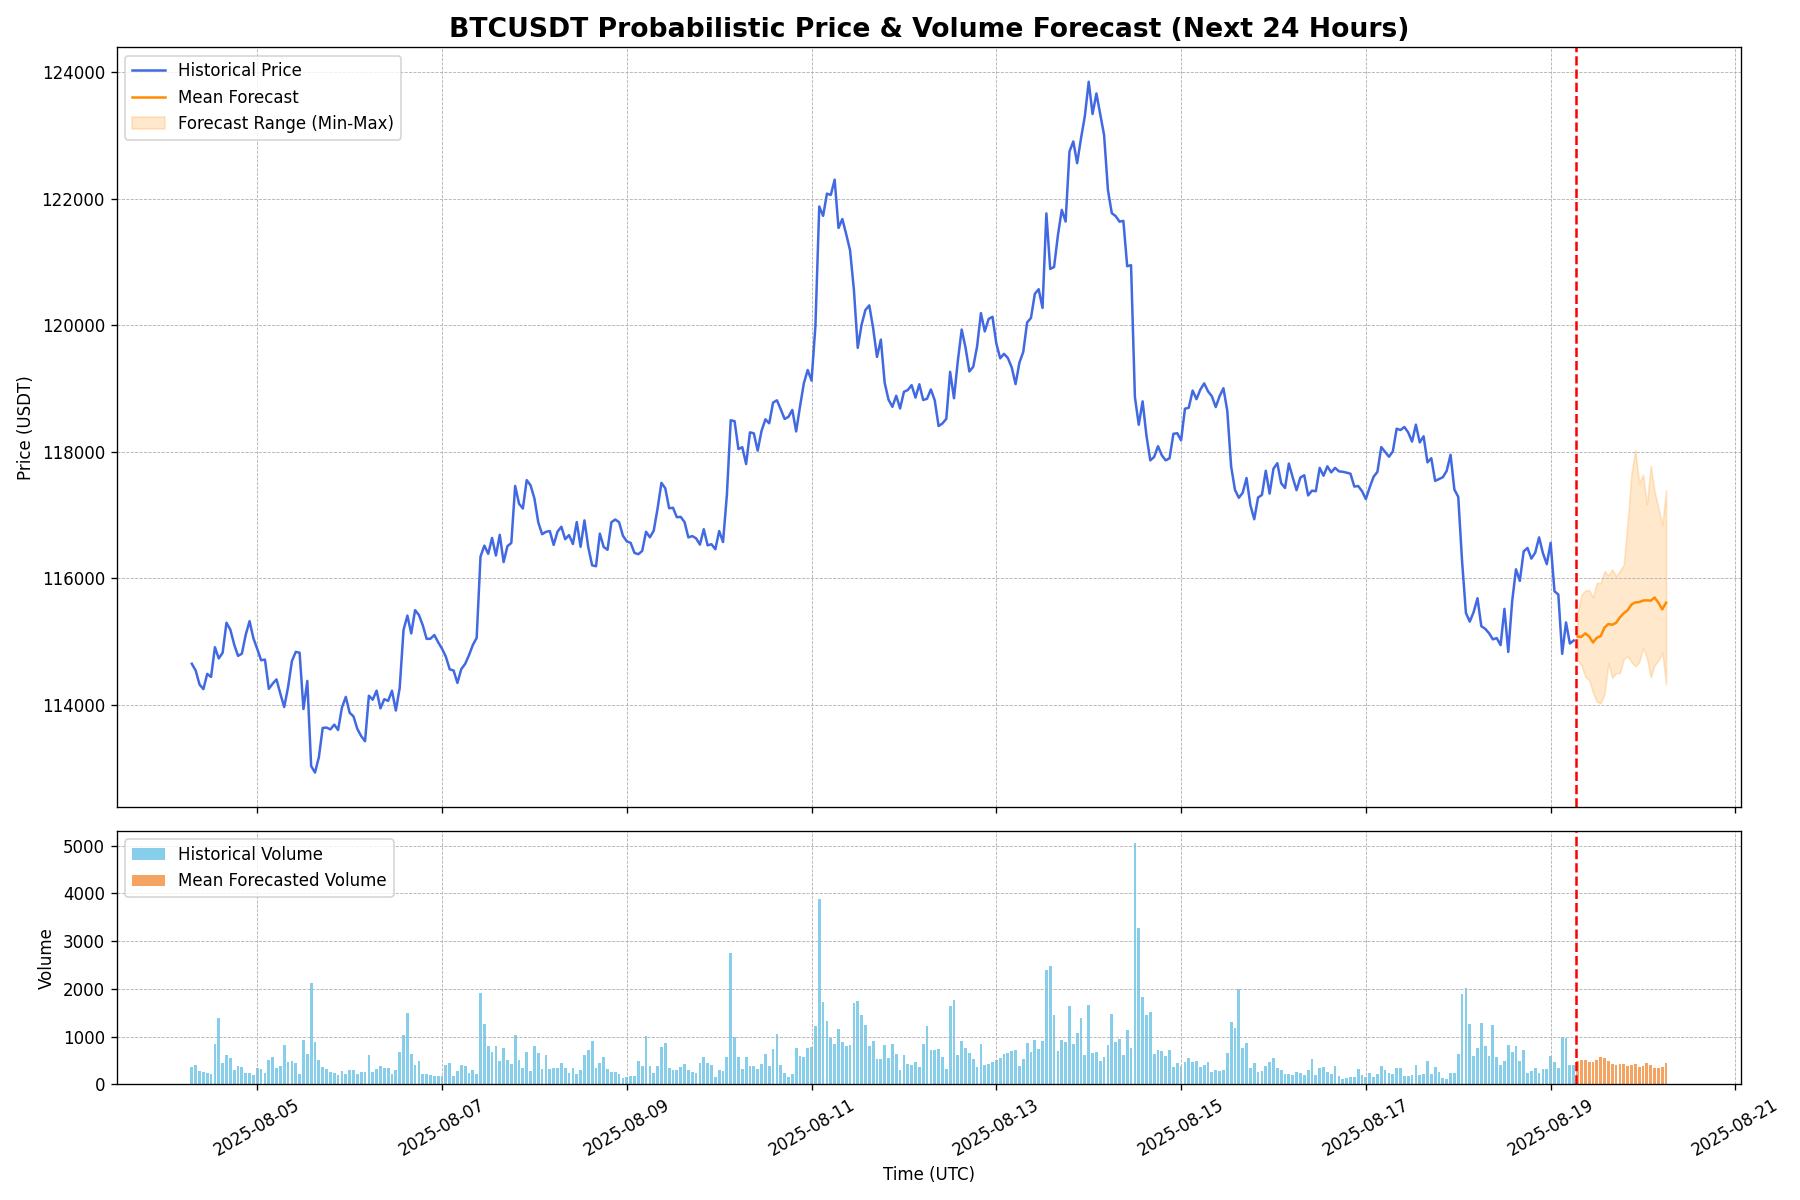
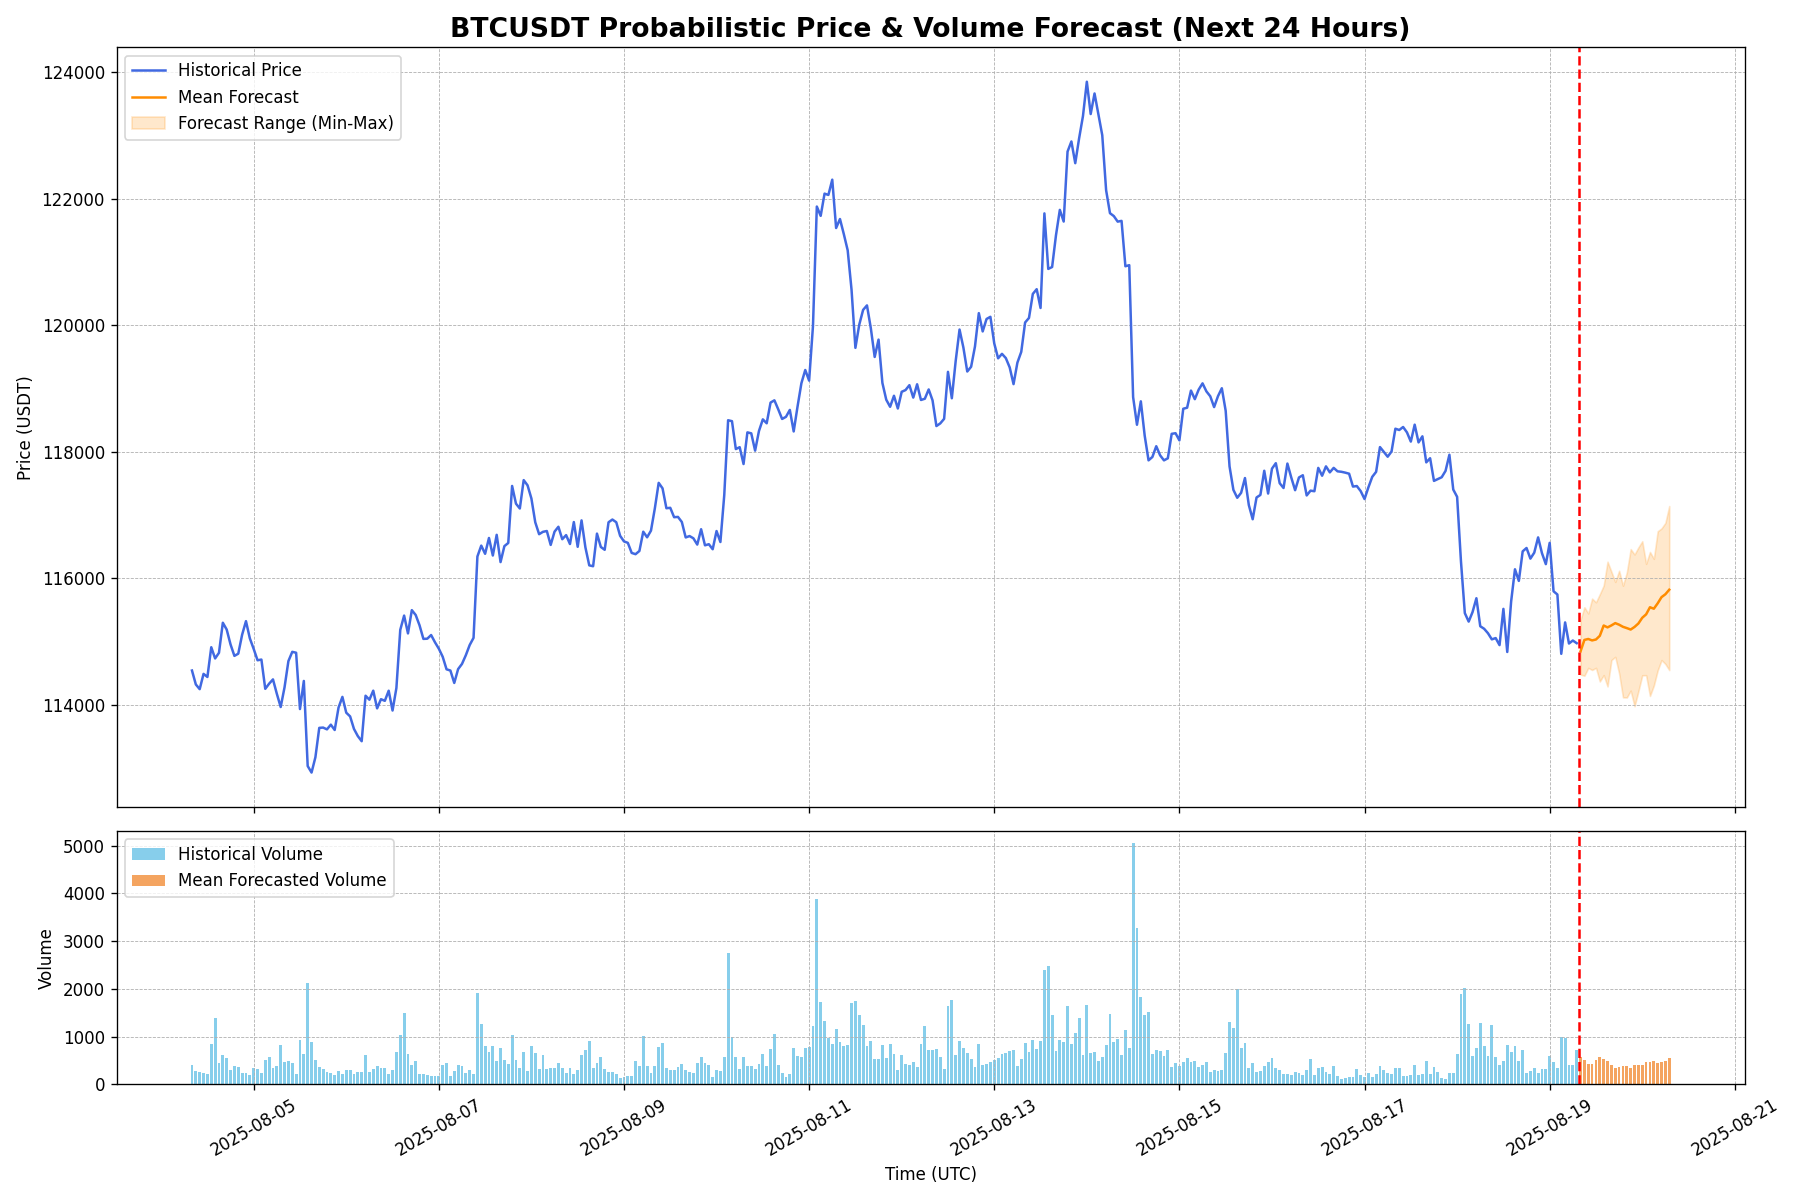
Auto-update forecast for 2025-08-19 08:03 UTC

diff --git a/index.html b/index.html
@@ -22,14 +22,14 @@
         <section id="live-dashboard">
             <h2>Live BTC/USDT Forecast Dashboard</h2>
             <div class="metadata">
-                <span>Last Updated (UTC): <strong id="update-time">2025-08-19 07:03:00</strong></span>
+                <span>Last Updated (UTC): <strong id="update-time">2025-08-19 08:03:01</strong></span>
                 <span>Data Source: Binance | Interval: 1-Hour</span>
             </div>
 
             <div class="metrics-container">
                 <div class="metric-card">
                     <h3>Upside Probability (Next 24h)</h3>
-                    <p class="metric-value" id="upside-prob">86.7%</p>
+                    <p class="metric-value" id="upside-prob">90.0%</p>
                     <div class="metric-desc">The model's confidence that the price in 24 hours will be higher than the last known price.</div>
                 </div>
                 <div class="metric-card">
